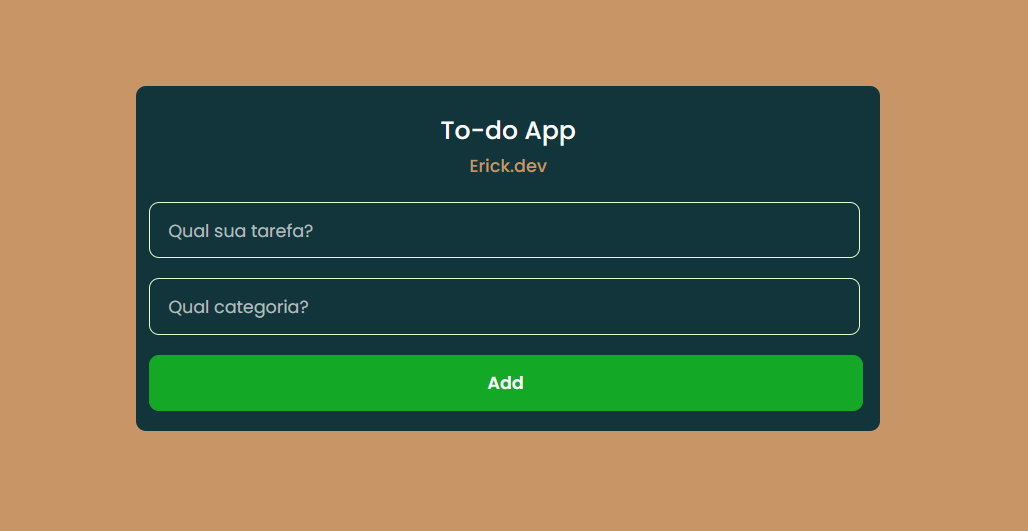
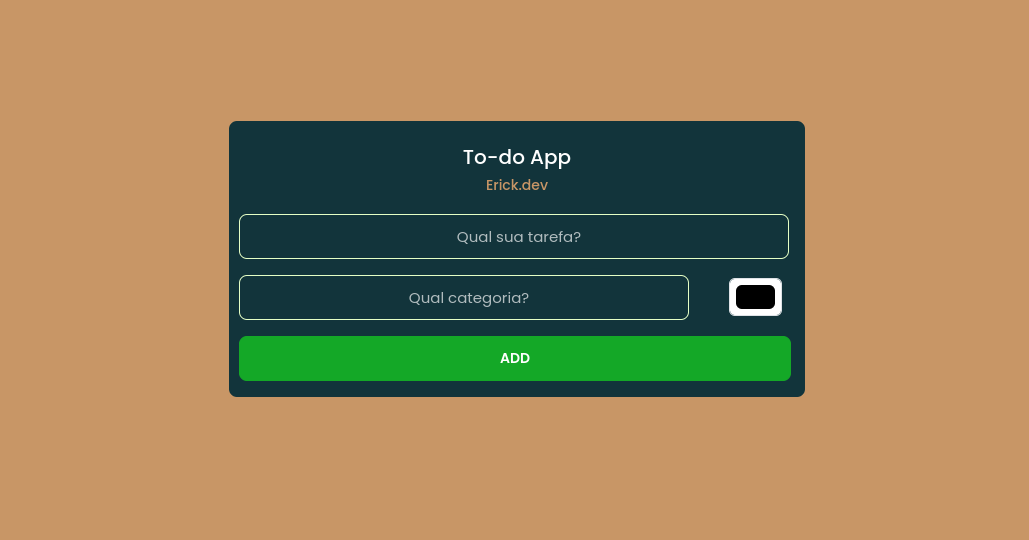
Updated todo-app project page

Changed region(s): [[0.1245, 0.1507, 0.8716, 0.8136]]

diff --git a/todo-app.html b/todo-app.html
@@ -1,0 +1,201 @@
+<!DOCTYPE html>
+<html lang="en">
+
+<head>
+  <meta charset="UTF-8">
+  <meta name="viewport" content="width=device-width, initial-scale=1">
+  <meta http-equiv="Permissions-Policy" content="interest-cohort=()"> <!-- GitHub pages error solved by this meta tag-->
+  <link rel="stylesheet" href="bootstrap/css/bootstrap.css">
+  <link href="https://cdn.jsdelivr.net/npm/bootstrap@5.3.2/dist/css/bootstrap.min.css" rel="stylesheet"
+    integrity="sha384-T3c6CoIi6uLrA9TneNEoa7RxnatzjcDSCmG1MXxSR1GAsXEV/Dwwykc2MPK8M2HN" crossorigin="anonymous">
+  <link rel="stylesheet" href="styles.css">
+  <link rel="preconnect" href="https://fonts.googleapis.com">
+  <link
+    href="https://fonts.googleapis.com/css2?family=Poppins:ital,wght@0,100;0,200;0,300;0,400;0,500;0,600;0,700;0,800;0,900;1,100;1,200;1,300;1,400;1,500;1,600;1,700;1,800;1,900&display=swap"
+    rel="stylesheet">
+  <link rel="stylesheet" href="https://cdn.jsdelivr.net/npm/bootstrap-icons@1.11.3/font/bootstrap-icons.min.css">
+  <script src="https://unpkg.com/feather-icons"></script>
+
+  <title>Erick Augusto | Front-End Developer</title>
+</head>
+
+<body>
+  <nav class="navbar navbar-expand-sm navbar-dark header sticky-top" id="nav-header">
+    <a class="navbar-brand" id="erick-name" href="index.html#home">Erick.dev</a>
+    <button class="navbar-toggler" type="button" data-toggle="collapse" data-target="#navbarNav"
+      aria-controls="navbarNav" aria-expanded="false" aria-label="Toggle navigation">
+      <span class="navbar-toggler-icon"></span>
+    </button>
+    <div class="collapse navbar-collapse" id="navbarNav">
+      <div class="navbar-nav ml-auto text-center">
+        <a class="nav-item nav-link" href="index.html#home">home</a>
+        <a class="nav-item nav-link" href="index.html#about ">about</a>
+        <a class="nav-item nav-link" href="index.html#projetos">portfolio</a>
+        <a class="nav-item nav-link" href="index.html#experience">experience</a>
+
+      </div>
+    </div>
+  </nav>
+
+  <section class="title mb-3">
+    <div class="container-fluid">
+      <div class="row">
+        <div class="col-12 text-center mt-5">
+          <h1 class="project-title">
+            To-do <span class="txt-highlight-todo">App</span>.
+          </h1>
+        </div>
+      </div>
+      <div class="row mt-5 d-flex align-items-center">
+        <div class="col-lg-9 col-md-12 col-sm-12 col-12 coluna-img-todo">
+          <img src="images/todo-app.png" class="img-fluid" alt="Website Todo App">
+        </div>
+        <div class="col-lg-3 col-md-12 col-sm-12 col-12 txt-lateral-div">
+          <div class="row">
+            <div class="col-12 mb-3 text-center">
+              <h2 class="txt-highlight-todo">Useful.</h2>
+            </div>
+          </div>
+          <h6 class="txt-lateral text-center">The project was developed to work in any device, with simple functions to make it useful to everyone that would like to take notes of their daily obligations.</h6>
+        </div>
+      </div>
+    </div>
+  </section>
+
+  <div class="separador-horizontal-todo"></div>
+
+  <section class="title2">
+    <div class="container-fluid">
+      <div class="row">
+        <div class="col-12 text-center mt-5">
+          <h1 class="project-title">
+            Editable<span class="txt-highlight-todo">.</span>
+          </h1>
+        </div>
+      </div>
+      <div class="row">
+        <div class="row mt-5 d-flex align-items-center">
+          <div class="col-lg-3 col-md-12 col-sm-12 col-12 txt-lateral-div">
+            <div class="row">
+              <div class="col-12 mb-3 text-center">
+                <h2 class="txt-highlight-todo">Categories.</h2>
+              </div>
+            </div>
+            <h6 class="txt-lateral text-center">The user <span class="txt-highlight-todo">can divide his items by a color pallete.</span>
+              This procedure makes it easy to separate between categories. And <span class="txt-highlight-todo">select easily</span> the items he would like to <span class="txt-highlight-todo">check, edit or delete.</span></h6>
+          </div>
+          <div class="col-lg-9 col-md-12 col-sm-12 col-12 coluna-img-todo ms-0 me-0">
+            <img src="images/todo-app1.png" class="img-fluid" alt="Website Todo App">
+          </div>
+        </div>
+
+
+      </div>
+  </section>
+
+  <div class="separador-horizontal-todo"></div>
+
+  <section class="title mb-3">
+    <div class="container-fluid">
+      <div class="row">
+        <div class="col-12 text-center mt-5">
+          <h1 class="project-title">
+            Fast<span class="txt-highlight-todo">.</span>
+          </h1>
+        </div>
+      </div>
+      <div class="row mt-5 d-flex align-items-center">
+        <div class="col-lg-9 col-md-12 col-sm-12 col-12 coluna-img-todo">
+          <img src="images/todo-app2.png" class="img-fluid" alt="Website Todo App">
+        </div>
+        <div class="col-lg-3 col-md-12 col-sm-12 col-12 txt-lateral-div">
+          <div class="row">
+            <div class="col-12 mb-3 text-center">
+              <h2 class="txt-highlight-todo">User-friendly.</h2>
+            </div>
+          </div>
+          <h6 class="txt-lateral text-center">The way it's editable makes it even more <span
+              class="txt-highlight-todo">minimalist</span>.
+            The visual elements are organized in a <span class="txt-highlight-todo">clear</span> way, and the user can set colors of its
+            preference, and also setting the category of each card.
+            This allows visitors to focus on what really matters: <p class="txt-lateral-paragraph">
+              <span class="txt-highlight-todo">take notes</span>.
+            </p>
+          </h6>
+        </div>
+      </div>
+    </div>
+  </section>
+
+  <div class="separador-horizontal-todo"></div>
+
+  <section class="title2 mb-5">
+    <div class="container-fluid">
+      <div class="row">
+        <div class="col-12 text-center mt-5">
+          <h1 class="project-title">
+            Attractive<span class="txt-highlight-todo">.</span>
+          </h1>
+        </div>
+      </div>
+      <div class="row">
+        <div class="row mt-5 d-flex align-items-center">
+          <div class="col-lg-3 col-md-12 col-sm-12 col-12 txt-lateral-div">
+            <div class="row">
+              <div class="col-12 mb-3 text-center">
+                <h2 class="txt-highlight-todo">Interactions.</h2>
+              </div>
+            </div>
+            <h6 class="txt-lateral text-center">I chose to do not display interactions until user chooses to interact by clicking on the elements
+              on the webapp, offering <span class="txt-highlight-todo">users intuitive</span> and efficient navigation. This approach simplifies visual to
+              website information and functionality, providing a more <span class="txt-highlight-todo">pleasant</span> and <span class="txt-highlight-todo">user-friendly experience</span>.</h6>
+          </div>
+          <div class="col-lg-9 col-md-12 col-sm-12 col-12 coluna-img-todo ms-0 me-0">
+            <img src="images/todo-app3.png" class="img-fluid" alt="Website Todo App">
+          </div>
+        </div>
+
+
+      </div>
+  </section>
+
+  <section class="ft">
+    <footer class="footer">
+      <div class="container">
+        <div class="row">
+          <div class="col-12 d-flex align-items-center justify-content-center icones">
+            <a href="" type="button"><i class="bi bi-facebook"></i></a>
+            <a href="" type="button"><i class="bi bi-github"></i></a>
+            <a href="" type="button"><i class="bi bi-linkedin"></i></a>
+          </div>
+        </div>
+        <div class="row">
+          <div class="col-12 d-flex align-items-center justify-content-center nav-footer">
+            <a href="#home" class="nav-item nav-link">home</a>
+            <a href="#about" class="nav-item nav-link">about</a>
+            <a href="#projetos" class="nav-item nav-link">portfolio</a>
+            <a href="#experience" class="nav-item nav-link">experience</a>
+          </div>
+          <div class="row">
+            <div class="col-12 text-center erick-footer">
+              <a href="index.html#home" class="navbar-brand">Erick.dev</a>
+            </div>
+          </div>
+          <div class="row">
+            <div class="col-12 text-center copyright">
+              <p>All rights reserved. ©</p>
+            </div>
+          </div>
+        </div>
+  </section>
+
+
+  <script src="https://code.jquery.com/jquery-3.5.1.slim.min.js"></script>
+  <script src="https://cdn.jsdelivr.net/npm/@popperjs/core@2.11.6/dist/umd/popper.min.js"></script>
+  <script src="https://cdn.jsdelivr.net/npm/bootstrap@4.3.1/dist/js/bootstrap.min.js"
+    integrity="sha384-JjSmVgyd0p3pXB1rRibZUAYoIIy6OrQ6VrjIEaFf/nJGzIxFDsf4x0xIM+B07jRM"
+    crossorigin="anonymous"></script>
+
+</body>
+
+</html>

diff --git a/index.html b/index.html
@@ -46,7 +46,7 @@
         <div class="col-xl-7 col-lg-7 col-md-12 col-sm-12 col-12 d-flex flex-column align-items-start" id="lateral-txt">
           <span class="span-img">Hey!<div class="img-shaking"><img class="img-fluid" src="images/shaking hand.png" alt=""></div></span>
           <span>I'm <span id="txt-highlight">Erick</span>.</span>
-          <span>I'm a <span id="txt-highlight">UX</span> and <span id="txt-highlight">Front-End Developer</span>.</span>
+          <span>I'm a <span id="txt-highlight">React Front-End Developer</span>.</span>
           <div class="row" id="row-icones-inicio">
             <div class="col-12" id="icones-inicio">
               <a href="https://br.linkedin.com/in/oerickaugusto" target="_blank"><i class="bi bi-linkedin"></i></a>
@@ -89,10 +89,10 @@
                           <img src="https://skillicons.dev/icons?i=html,css" alt="skill-icon">
                         </li>
                         <li>
-                          <img src="https://skillicons.dev/icons?i=javascript,python" alt="skill-icon">
+                          <img src="https://skillicons.dev/icons?i=javascript,bootstrap" alt="skill-icon">
                         </li>
                         <li>
-                          <img src="https://skillicons.dev/icons?i=bootstrap,react" alt="skill-icon">
+                          <img src="https://skillicons.dev/icons?i=react,next" alt="skill-icon">
                         </li>
                         <li>
                           <img src="https://skillicons.dev/icons?i=git,figma" alt="skill-icon">
@@ -192,7 +192,7 @@
           </div>
           <div class="row">
             <div class="col-12 descricao-item text-center mt-3">
-              <p>This project has been created using React and also an API to localstorage data.
+              <p>This project has been created using React and also a simple API to localstorage data.
                 Every item after being added to the list can be deleted, concluded or edited.
               </p>
             </div>
@@ -200,7 +200,7 @@
           <div class="row">
             <div class="col-12 d-flex justify-content-center align-items-center btn-cima">
               <a type="button" target="_blank" href="https://erick-todoapp.vercel.app/" class="btn-item-projeto text-center"><img src="images/monitor.svg" alt="">Demo</a>
-              <a type="button" href="projeto-restaurante.html" class="btn-item-projeto text-center"><img src="images/layout.svg" alt="">Project</a>
+              <a type="button" href="todo-app.html" class="btn-item-projeto text-center"><img src="images/layout.svg" alt="">Project</a>
           </div>
           </div>
         <div class="row">

diff --git a/styles.css b/styles.css
@@ -586,8 +586,37 @@ span #txt-highlight {
 
 /* fim item 2 da pagina projetos */
 
+
+/* inicio pagina projetos to-do.app */
+
+.txt-highlight-todo {
+    font-weight: 600;
+    color: #c89666;
+}
+
+.separador-horizontal-todo {
+    height: 0px;
+    border: .3px solid #c89666;
+    width: 90%;
+    margin-left: auto;
+    margin-top: 90px;
+    margin-bottom: 50px;
+    margin-right: auto;
+}
+
 /* fim pagina projetos */
 
+.title .coluna-img-todo img {
+    border: 1px solid black;
+    /* padding: 3px 0 3px 0; */
+    border-radius: 6px;
+}
+
+.title2 .coluna-img-todo img {
+    border: 1px solid black;
+    /* padding: 3px 0 3px 0; */
+    border-radius: 6px;
+}
 
 
 /* media queries */
